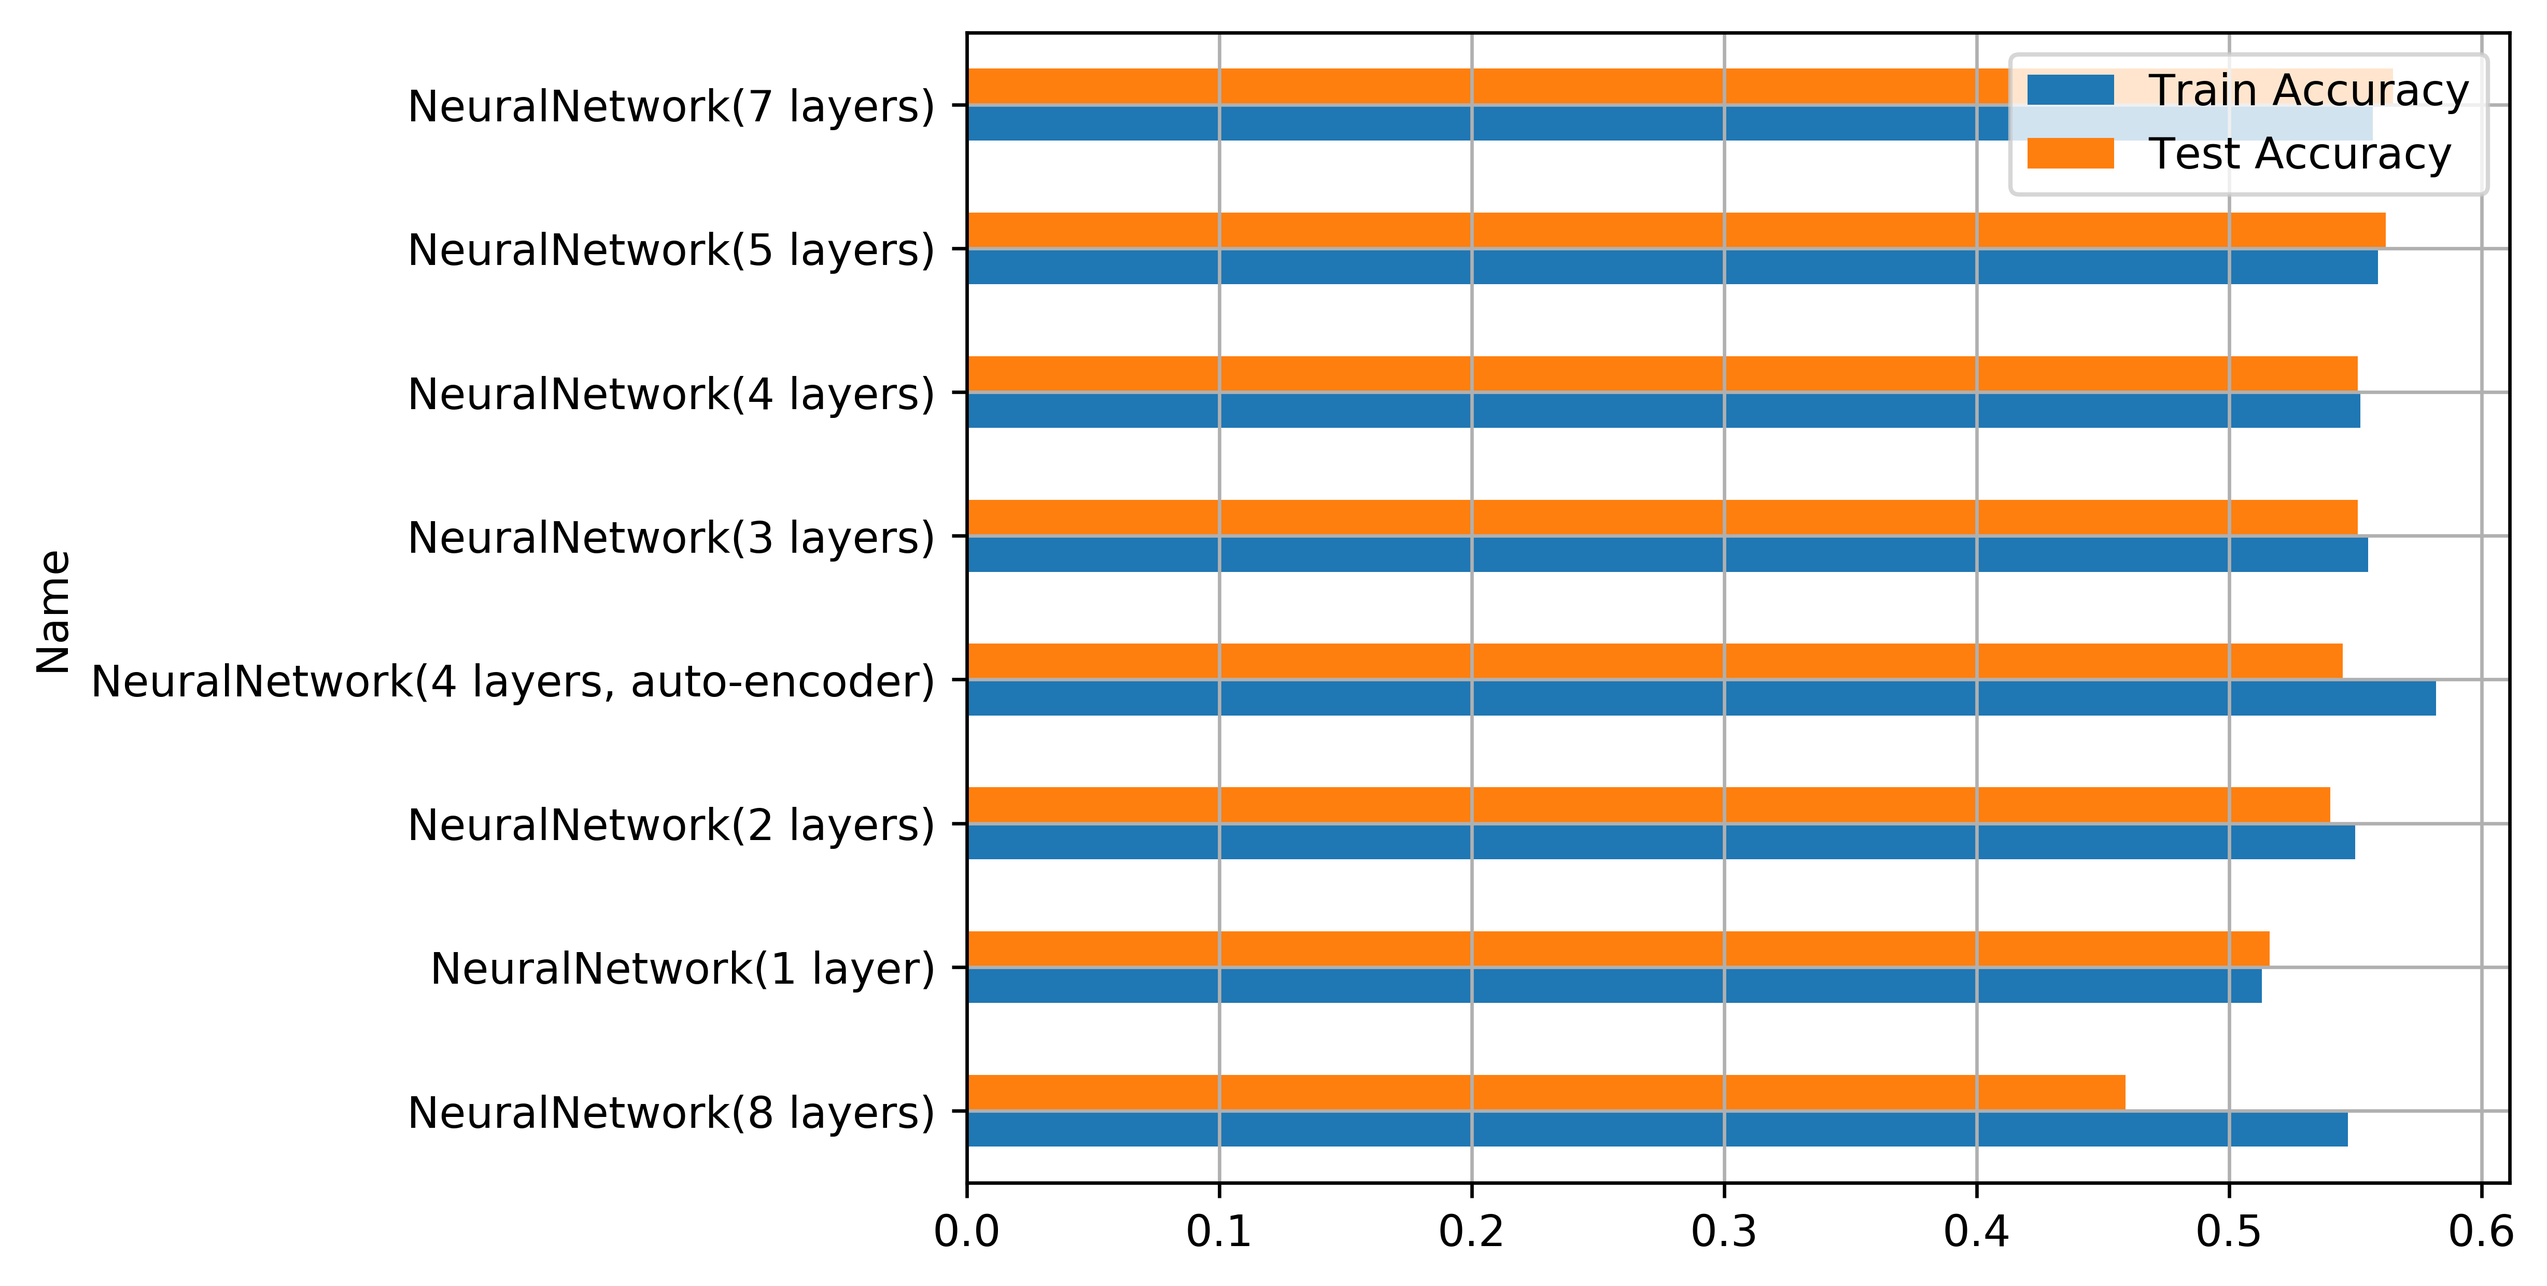
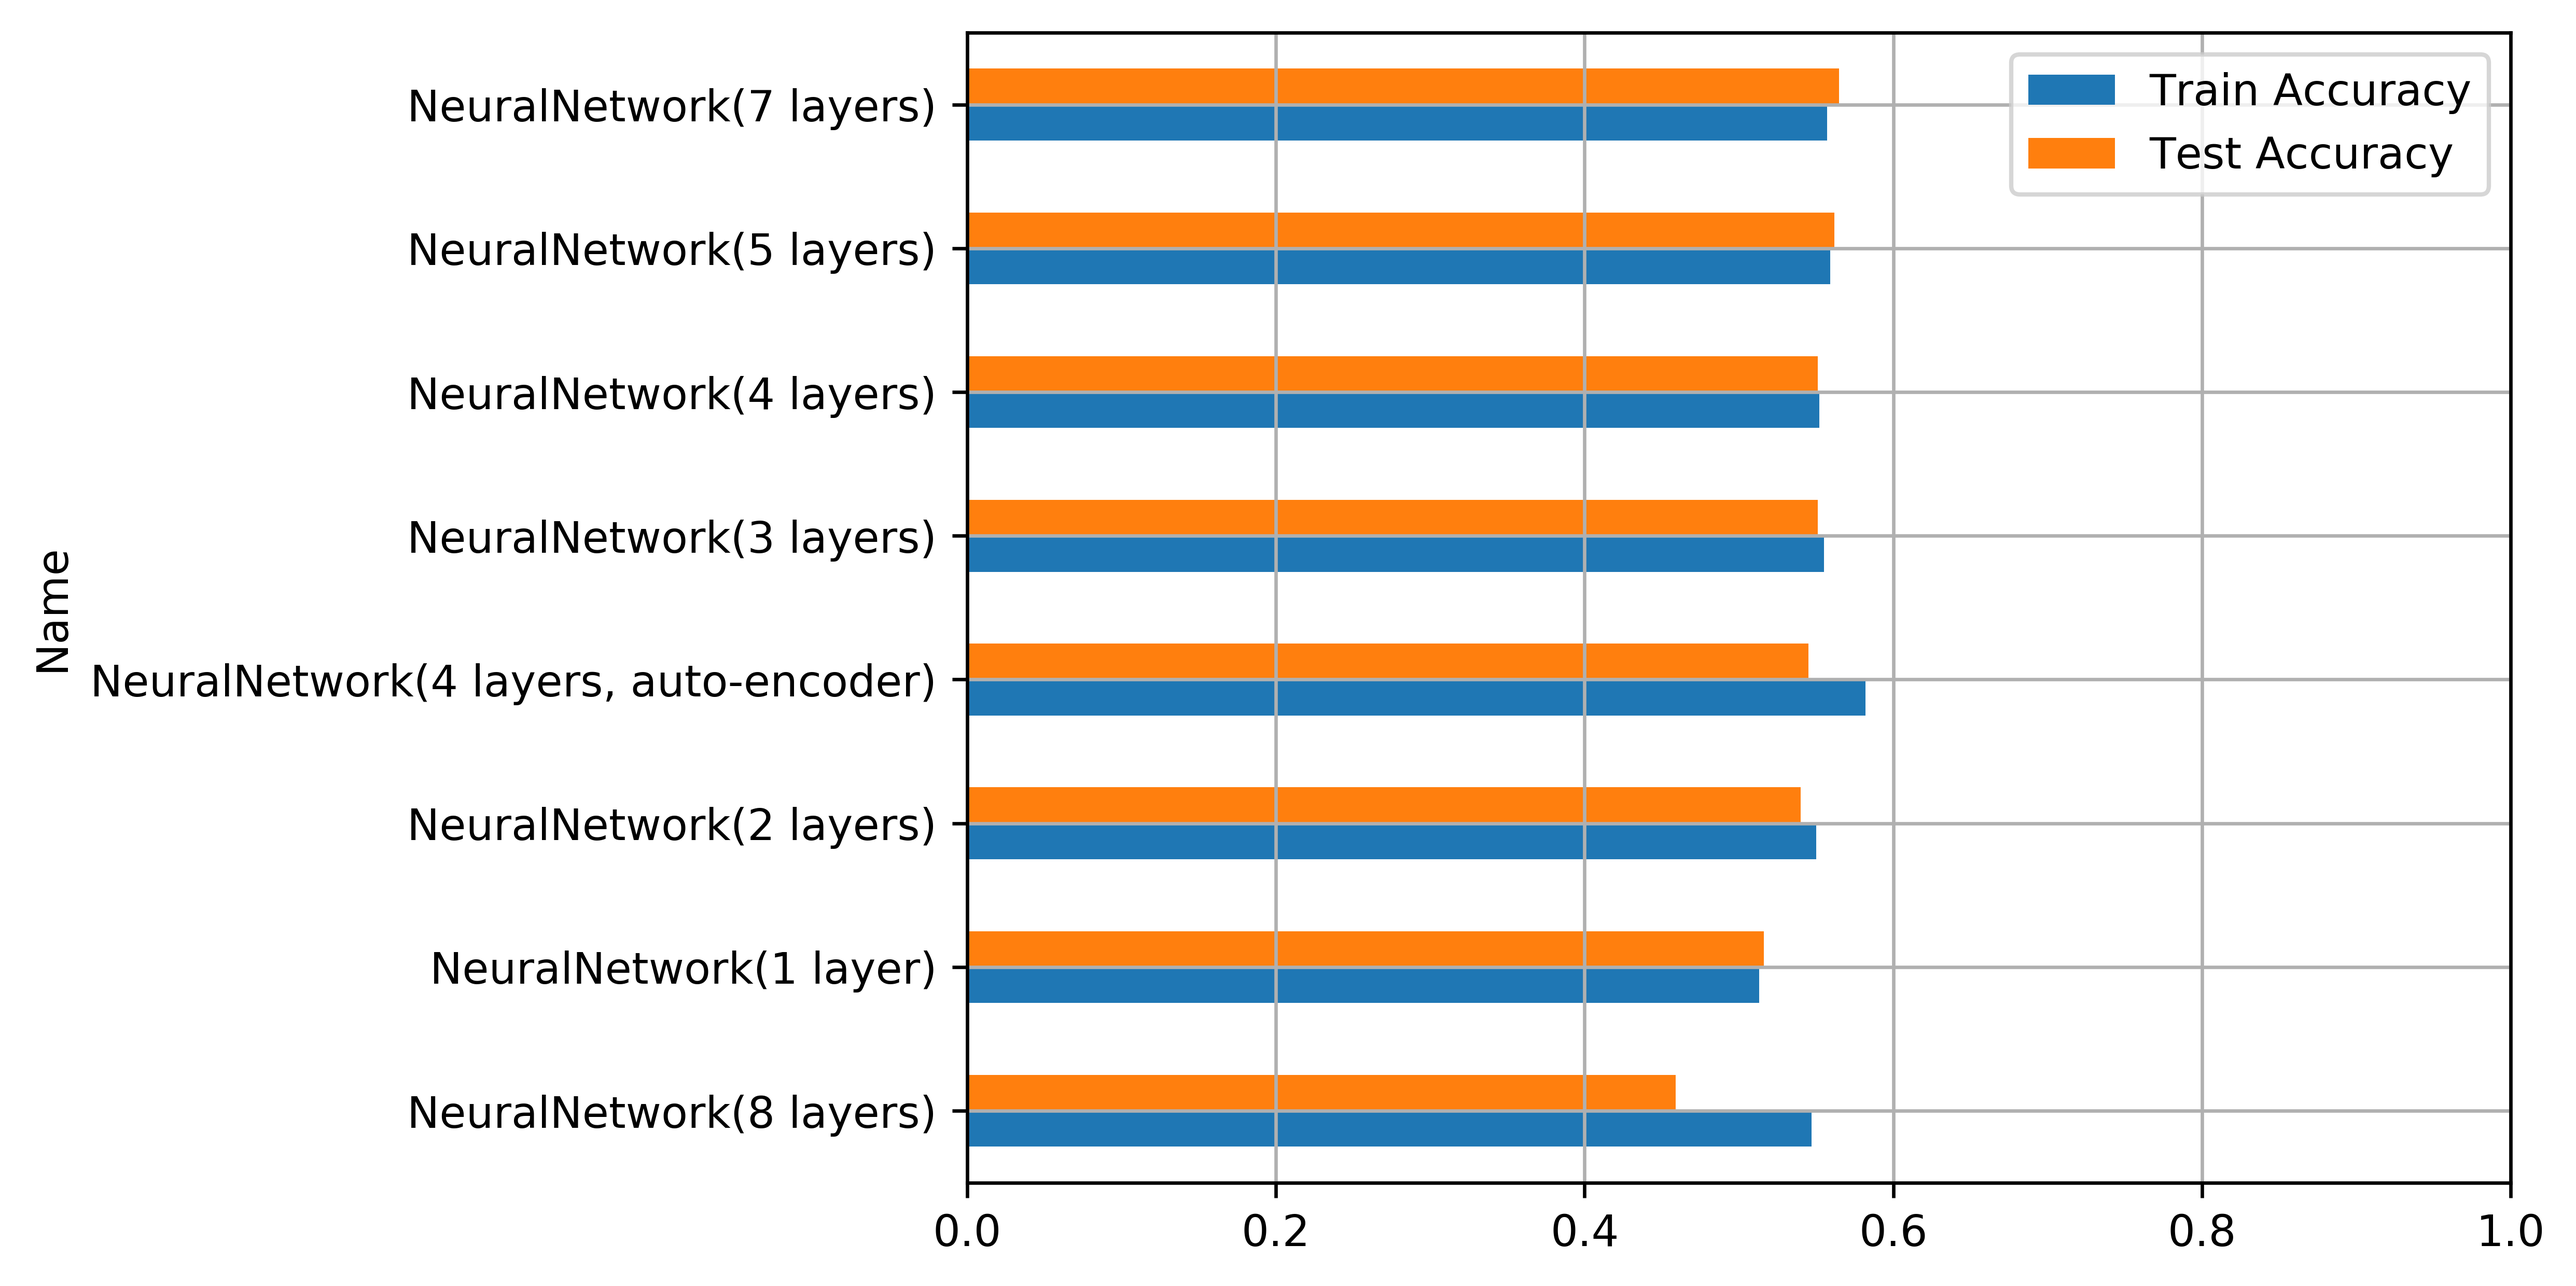
Change x-lim

diff --git a/visualization/plot.py b/visualization/plot.py
@@ -6,7 +6,7 @@ mla = pd.read_pickle('./comparison.pkl')
 mla = mla.drop(['MLA Time', 'MLA Test Accuracy 3*STD', 'MLA Parameters'], axis=1)
 mla = mla.rename(index=str, columns={'MLA Name': 'Name', 'MLA Test Accuracy Mean': 'Test Accuracy',
                                      'MLA Train Accuracy Mean': 'Train Accuracy'})
-# mla = mla.iloc[0:0]
+mla = mla.iloc[0:0]
 
 mla = mla.append({'Name': 'NeuralNetwork(1 layer)', 'Test Accuracy': 0.516, 'Train Accuracy': 0.513},
                  ignore_index=True)
@@ -27,9 +27,11 @@ mla = mla.append({'Name': 'NeuralNetwork(4 layers, auto-encoder)', 'Test Accurac
 mla = mla.sort_values(by=['Test Accuracy'])
 print(mla)
 
-mla.plot.barh(x='Name', rot=0)
+ax = mla.plot.barh(x='Name', rot=0)
+# plt.legend(loc='top left', bbox_to_anchor=(1.0, 0.5))
+ax.set_xlim(0, 1)
 plt.grid(zorder=0)
-plt.savefig('./comparison.png', format='png', dpi=600, bbox_inches='tight')
+plt.savefig('./neural_network.png', format='png', dpi=600, bbox_inches='tight')
 # plt.show()
 # print(mla.dtypes)
 
